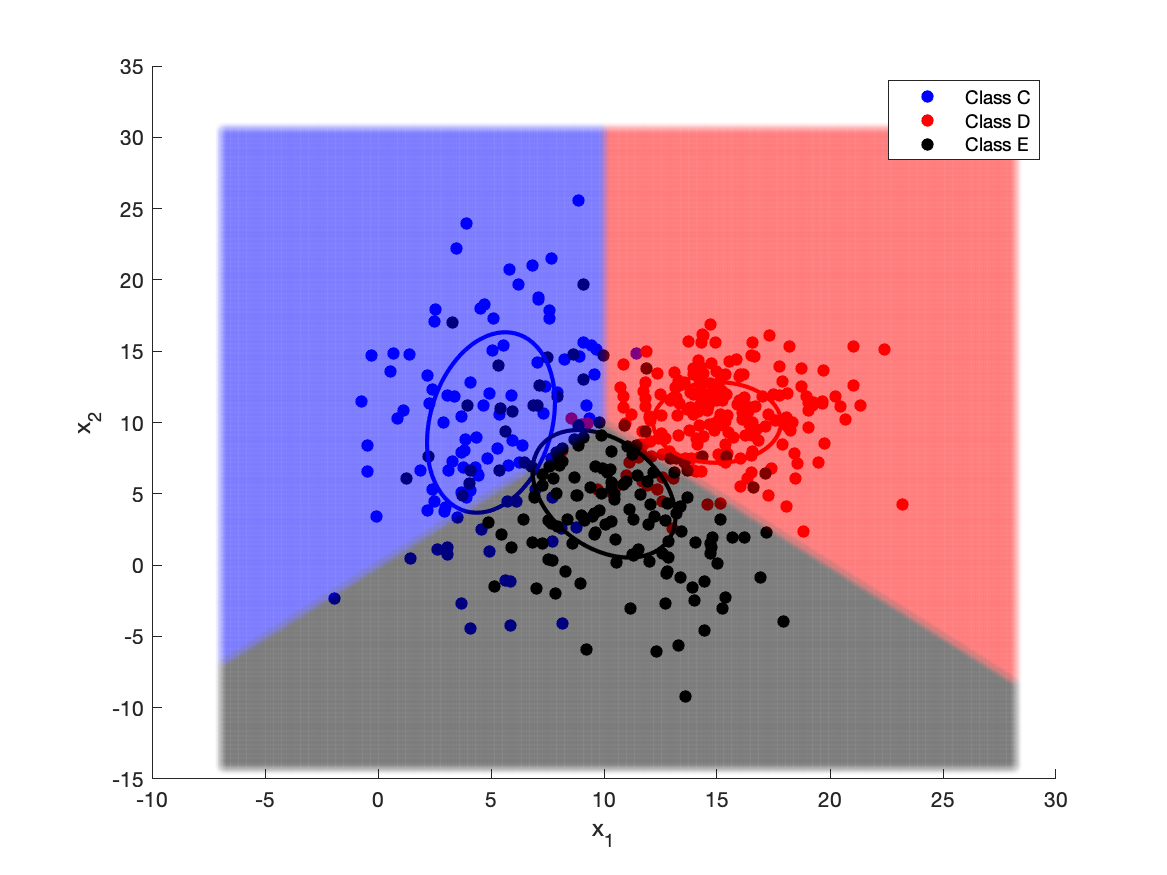
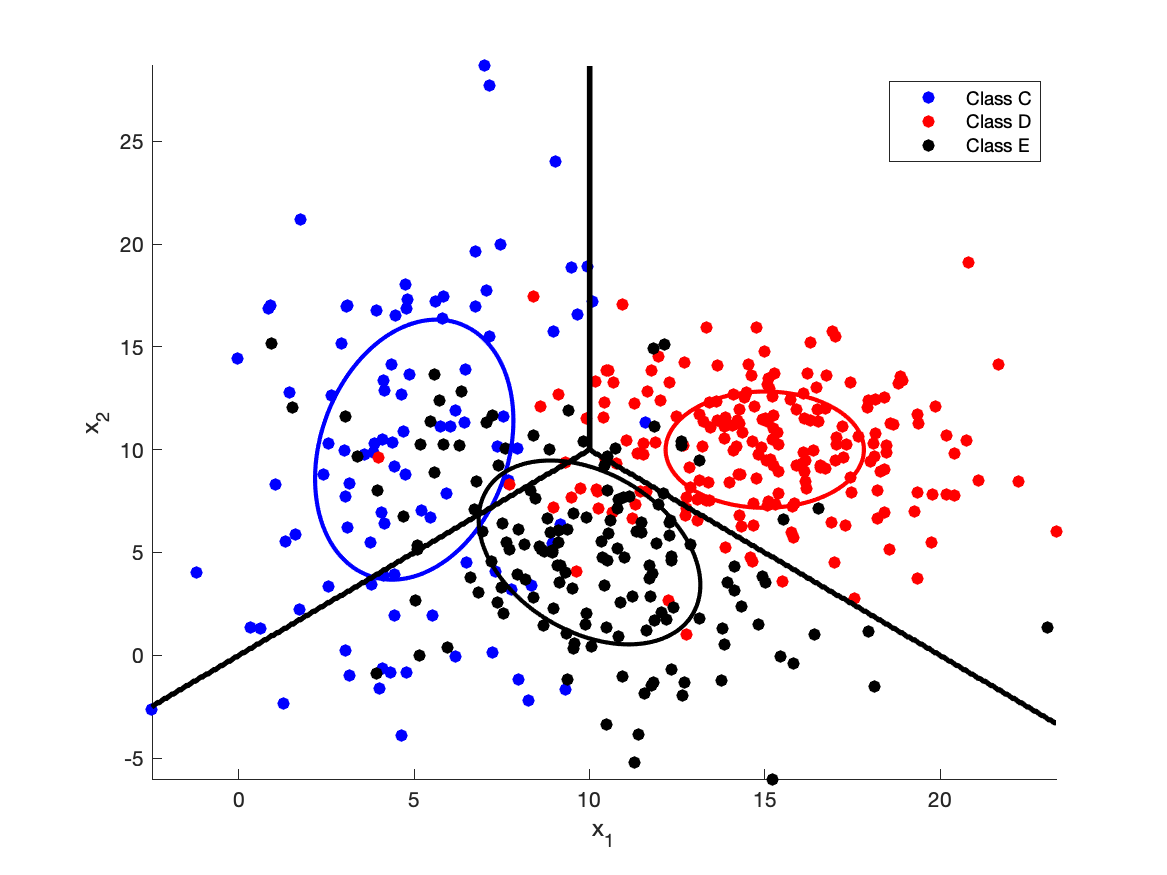
Contour plots for MED

diff --git a/main.m b/main.m
@@ -13,19 +13,8 @@ plot(class_a_x, class_a_y, 'b-', 'LineWidth', 2);
 plot(class_b_x, class_b_y, 'r-', 'LineWidth', 2);	
 
 % Minimum Euclidean Distance
-% Use heuristics to guess how long line is
-data_range = max([class_a.Data class_b.Data], [], 2) ...
-    - min([class_a.Data class_b.Data], [], 2);
-l = norm(data_range)/2;
-
-
-mid = (class_a.Mean + class_b.Mean)/2;
-normal = class_b.Mean - class_a.Mean;
-normal = [-normal(2); normal(1)];
-normal = normal./norm(normal);
-p1 = mid + l*normal;
-p2 = mid - l*normal;
-line([p1(1), p2(1)], [p1(2), p2(2)], 'color','k','LineWidth',2)
+[x1, x2, classification] = ClassData.MED([class_a class_b]);
+contour(x1, x2, classification, 'k', 'LineWidth', 2);
 
 xlabel('x_1');
 ylabel('x_2');
@@ -45,63 +34,15 @@ figure;
 hold on; 
 scatter(class_c.Data(1, :), class_c.Data(2, :), 'b', 'filled');
 scatter(class_d.Data(1, :), class_d.Data(2, :), 'r', 'filled');
-scatter(class_e.Data(1, :), class_e.Data(2, :), 'black', 'filled');
+scatter(class_e.Data(1, :), class_e.Data(2, :), 'k', 'filled');
 
 plot(class_c_x, class_c_y, 'b-', 'LineWidth', 2);
 plot(class_d_x, class_d_y, 'r-', 'LineWidth', 2);
-plot(class_e_x, class_e_y, 'black-', 'LineWidth', 2);
+plot(class_e_x, class_e_y, 'k-', 'LineWidth', 2);
 
-% MED multi classifier
-num_points = 500;
-max_data = 5 + max([class_c.Data class_d.Data class_e.Data], [], 2);
-min_data = -5 + min([class_c.Data class_d.Data class_e.Data], [], 2);
-x1 = linspace(min_data(1), max_data(1), num_points);
-x2 = linspace(min_data(2), max_data(2), num_points);
-[A,B] = meshgrid(x1,x2);
-c=cat(2,A',B');
-x=reshape(c,[],2)';
+[x1, x2, classification] = ClassData.MED([class_c class_d class_e]);
+contour(x1, x2, classification, 'k', 'LineWidth', 2);
 
-dist_c = vecnorm(x - class_c.Mean); 
-dist_d = vecnorm(x - class_d.Mean); 
-dist_e = vecnorm(x - class_e.Mean); 
-
-[~, min_I] = min([dist_c; dist_d; dist_e]);
-test = reshape(min_I, size(A));
-
-I = find(min_I == 3); 
-scatter(x(1, I), x(2, I), 'black', 'filled', 'MarkerFaceAlpha',.01,'MarkerEdgeAlpha',.01);
-[~, min_I] = min([dist_c; dist_d; dist_e]);
-I = find(min_I == 2); 
-scatter(x(1, I), x(2, I), 'r', 'filled', 'MarkerFaceAlpha',.01,'MarkerEdgeAlpha',.01);
-[min_val, min_I] = min([dist_c; dist_d; dist_e]);
-I = find(min_I == 1); 
-scatter(x(1, I), x(2, I), 'b', 'filled', 'MarkerFaceAlpha',.01,'MarkerEdgeAlpha',.01);
-
-
-% mid = (class_c.Mean + class_d.Mean)/2;
-% normal = class_d.Mean - class_c.Mean;
-% normal = [-normal(2); normal(1)];
-% normal = normal./norm(normal);
-% p1 = mid + l*normal;
-% % p2 = mid - l*normal;
-% line([p1(1), mid(1)], [p1(2), mid(2)], 'color','k','LineWidth',2)
-% 
-% mid = (class_c.Mean + class_e.Mean)/2;
-% normal = class_e.Mean - class_c.Mean;
-% normal = [-normal(2); normal(1)];
-% normal = normal./norm(normal);
-% p1 = mid + l*normal;
-% % p2 = mid - l*normal;
-% line([p1(1), mid(1)], [p1(2), mid(2)], 'color','k','LineWidth',2)
-% 
-% mid = (class_d.Mean + class_e.Mean)/2;
-% normal = class_e.Mean - class_d.Mean;
-% normal = [-normal(2); normal(1)];
-% normal = normal./norm(normal);
-% p1 = mid + l*normal;
-% p2 = mid - l*normal;
-% line([p1(1), mid(1)], [p1(2), mid(2)], 'color','k','LineWidth',2)
-% 
 
 xlabel('x_1');
 ylabel('x_2');

diff --git a/ClassData.m b/ClassData.m
@@ -4,6 +4,7 @@ classdef ClassData
         Mean;
         Covariance;
         Data;
+        Range;
     end
     
     methods
@@ -19,8 +20,12 @@ classdef ClassData
             Z2 = sqrt(-2*log(X(:, 1))).*sin(2*pi*X(:, 2));
             X = [Z1 Z2];
 
-            obj.Data = [X*chol(covariance)]' + mean;
+            obj.Data = (X*chol(covariance))' + mean;
+            
+            obj.Range = [max(obj.Data, [], 2) min(obj.Data, [], 2)];
         end
+        
+        
     end
        
      methods (Static)
@@ -55,7 +60,26 @@ classdef ClassData
             angles = atan2(y2 - y1, x2 - x1);
             x = (x1 + x2) / 2 + X * cos(angles) - Y * sin(angles);
             y = (y1 + y2) / 2 + X * sin(angles) + Y * cos(angles);
-            end
+         end
+            
+         function [x1, x2, classification] = MED(classes)
+            % Generate grid from range
+            num_points = 500;
+            max_data = max([classes.Range], [], 2);
+            min_data = min([classes.Range], [], 2);
+            x1 = linspace(min_data(1), max_data(1), num_points);
+            x2 = linspace(min_data(2), max_data(2), num_points);
+            [A,B] = meshgrid(x1,x2);
+            c=cat(2,A',B');
+            x=reshape(c,[],2)';
+            % Compute distance & reshape
+            dist = arrayfun(@(z) vecnorm(x-z.Mean), classes, ...
+                'UniformOutput', false);
+            dist = vertcat(dist{:});
+            % Classify and return
+            [~, classification] = min(dist);
+            classification = reshape(classification, size(A))';
+         end
      end
 
 end
